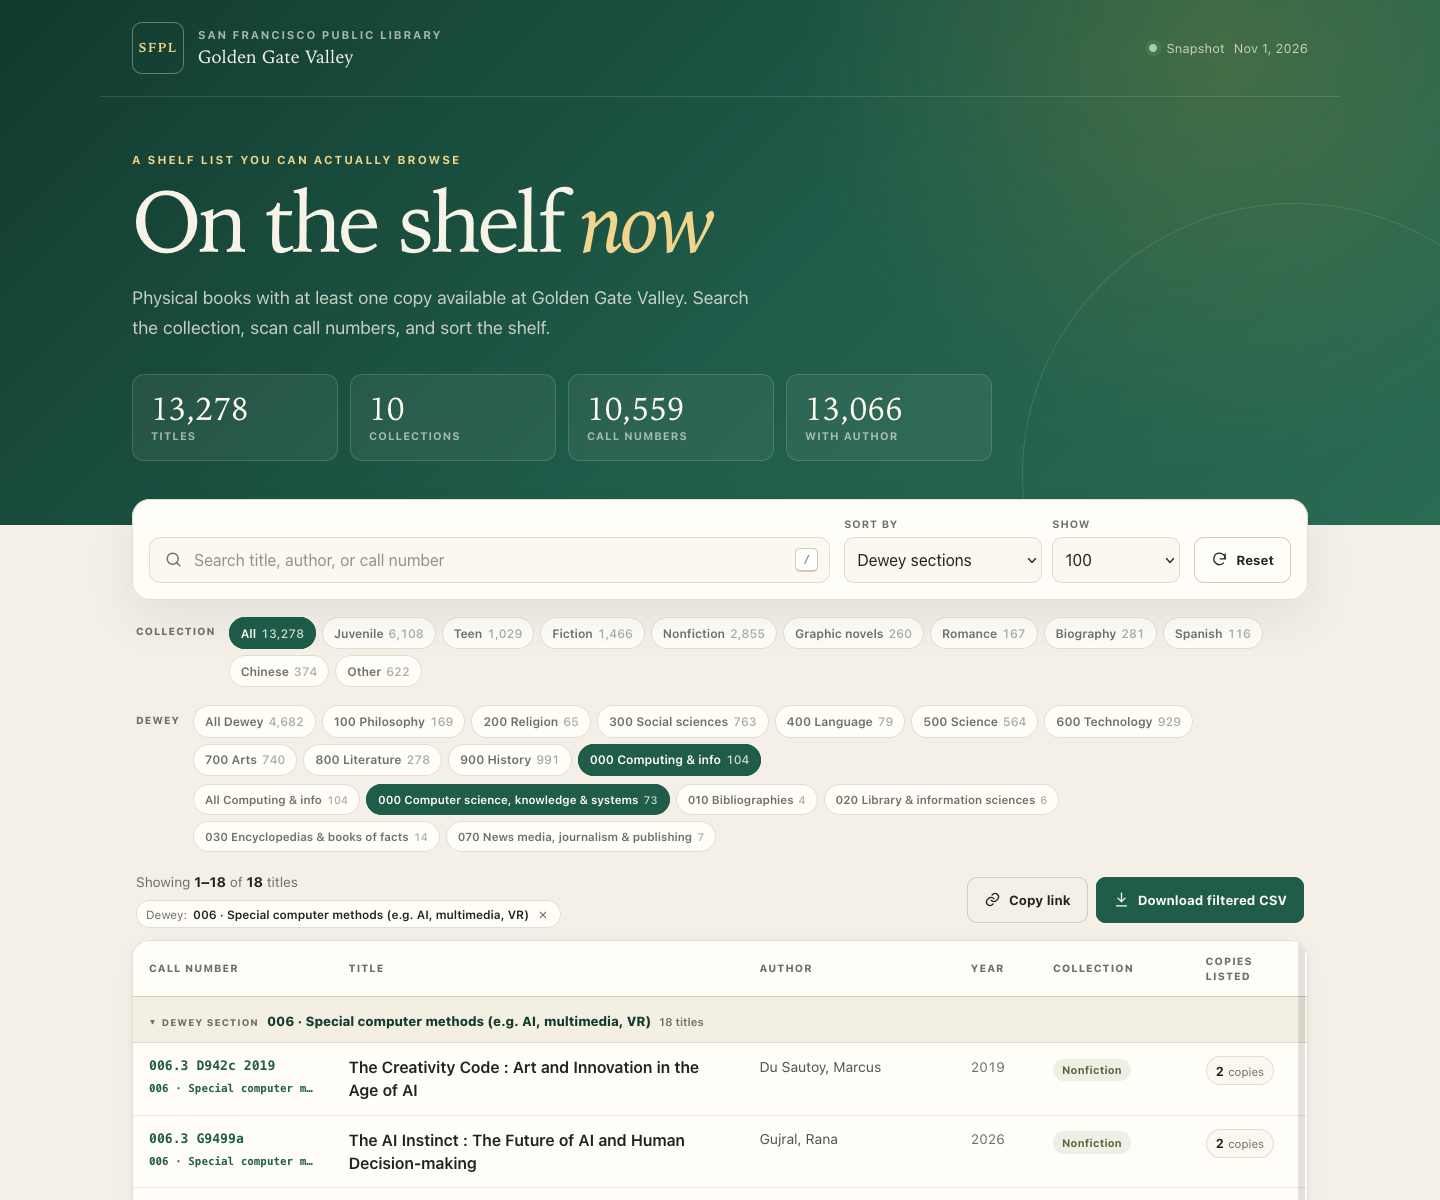
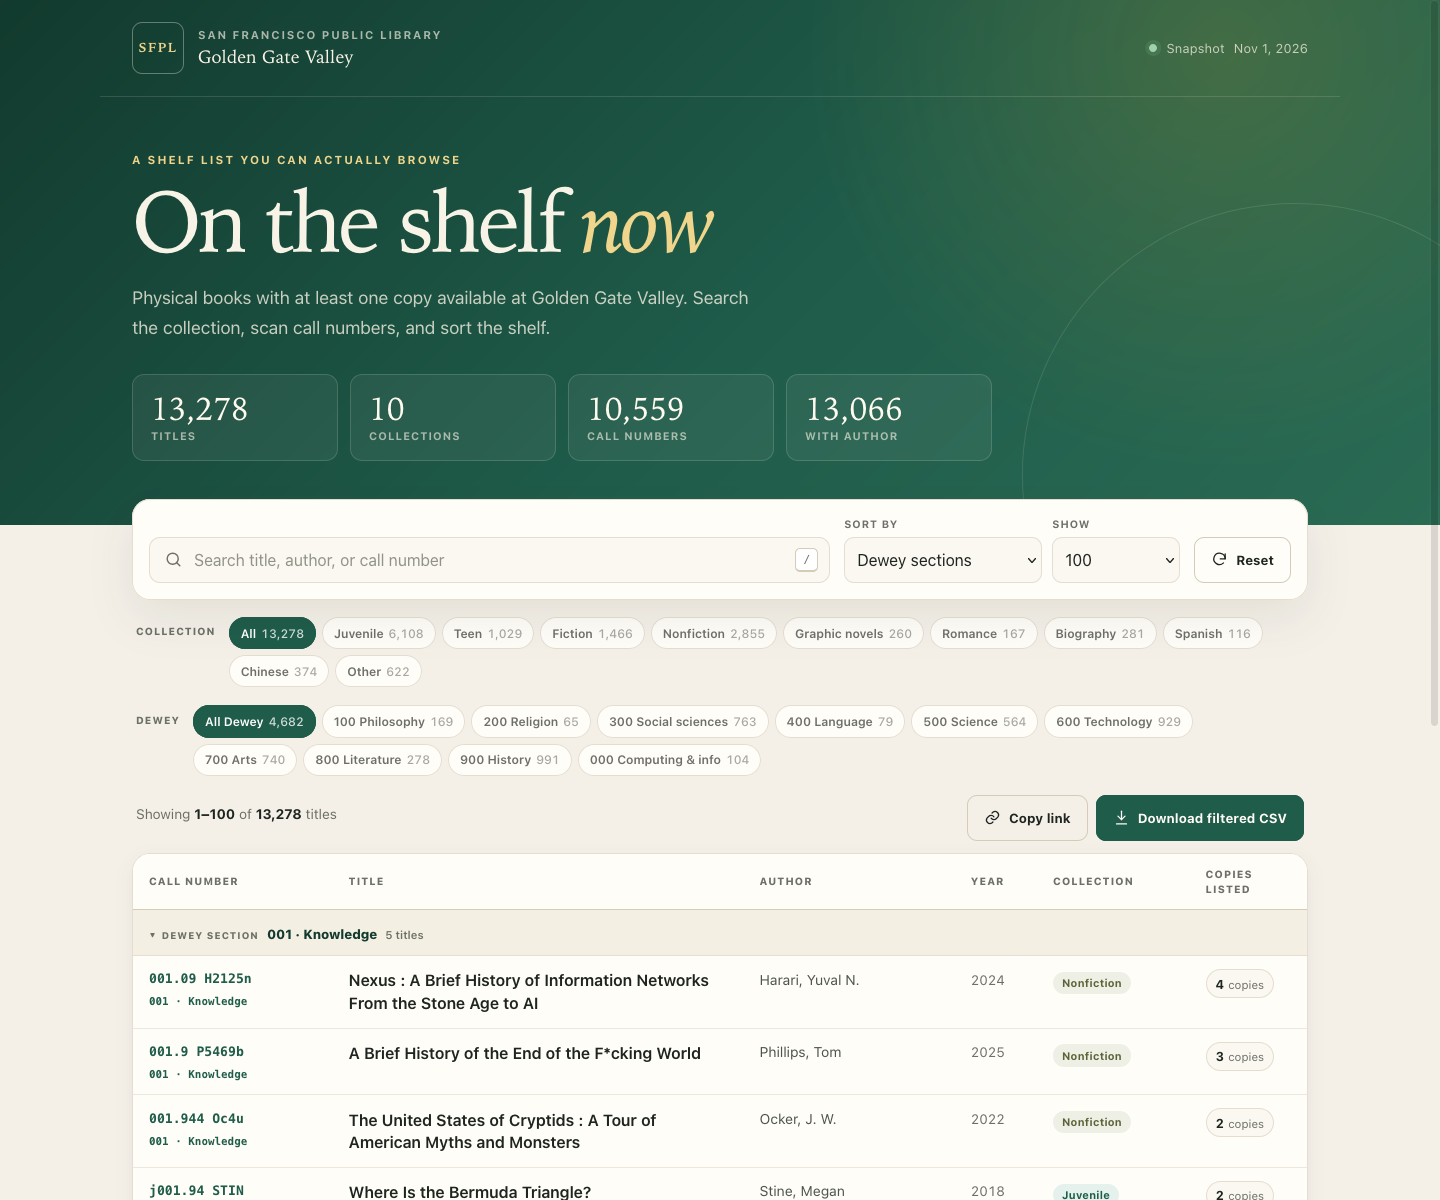
Start all Dewey sections collapsed

diff --git a/index.html b/index.html
@@ -7,7 +7,7 @@
   <meta name="theme-color" content="#1f563f">
   <meta name="description" content="A searchable snapshot of physical books with at least one copy available at SFPL's Golden Gate Valley branch.">
   <title>Golden Gate Valley · On the Shelf</title>
-  <link rel="stylesheet" href="styles.css">
+  <link rel="stylesheet" href="styles.css?v=20261103b">
 </head>
 <body>
   <a class="skip-link" href="#shelf">Skip to shelf</a>
@@ -149,8 +149,8 @@
 
   <div id="toast" class="toast" role="status" aria-live="polite"></div>
 
-  <script src="ddc.js"></script>
-  <script src="data.js"></script>
-  <script src="app.js"></script>
+  <script src="ddc.js?v=20261103b"></script>
+  <script src="data.js?v=20261103b"></script>
+  <script src="app.js?v=20261103b"></script>
 </body>
 </html>

diff --git a/app.js b/app.js
@@ -648,7 +648,6 @@
       state.ddcSection = ddcSection;
       state.ddcClass = ddcSection[0] + "00";
       state.ddcDivision = ddcSection.slice(0, 2) + "0";
-      state.expandedGroups.add(ddcSection);
     } else {
       if (ddcClass && ddc.classes[ddcClass]) state.ddcClass = ddcClass;
       if (ddcDivision && ddc.divisions[ddcDivision]) {

diff --git a/README.md b/README.md
@@ -46,8 +46,8 @@ within division 000, *Computer science, knowledge & systems*.
 The interface provides class and division filter chips, section links on each
 row, and a **Dewey sections (000–999)** sort that inserts collapsible section
 headers, groups DDC-numbered rows in section order, and places non-DDC rows
-afterward. Sections start collapsed; a direct section link opens that section.
-Dewey labels are a browsing aid adapted from publicly available DDC 23
+afterward. Sections start collapsed. Dewey labels are a browsing aid adapted
+from publicly available DDC 23
 summaries; unassigned numbers fall back to the division label. DDC is a trademark of OCLC. This project is
 independent and is not endorsed by OCLC or San Francisco Public Library.
 
